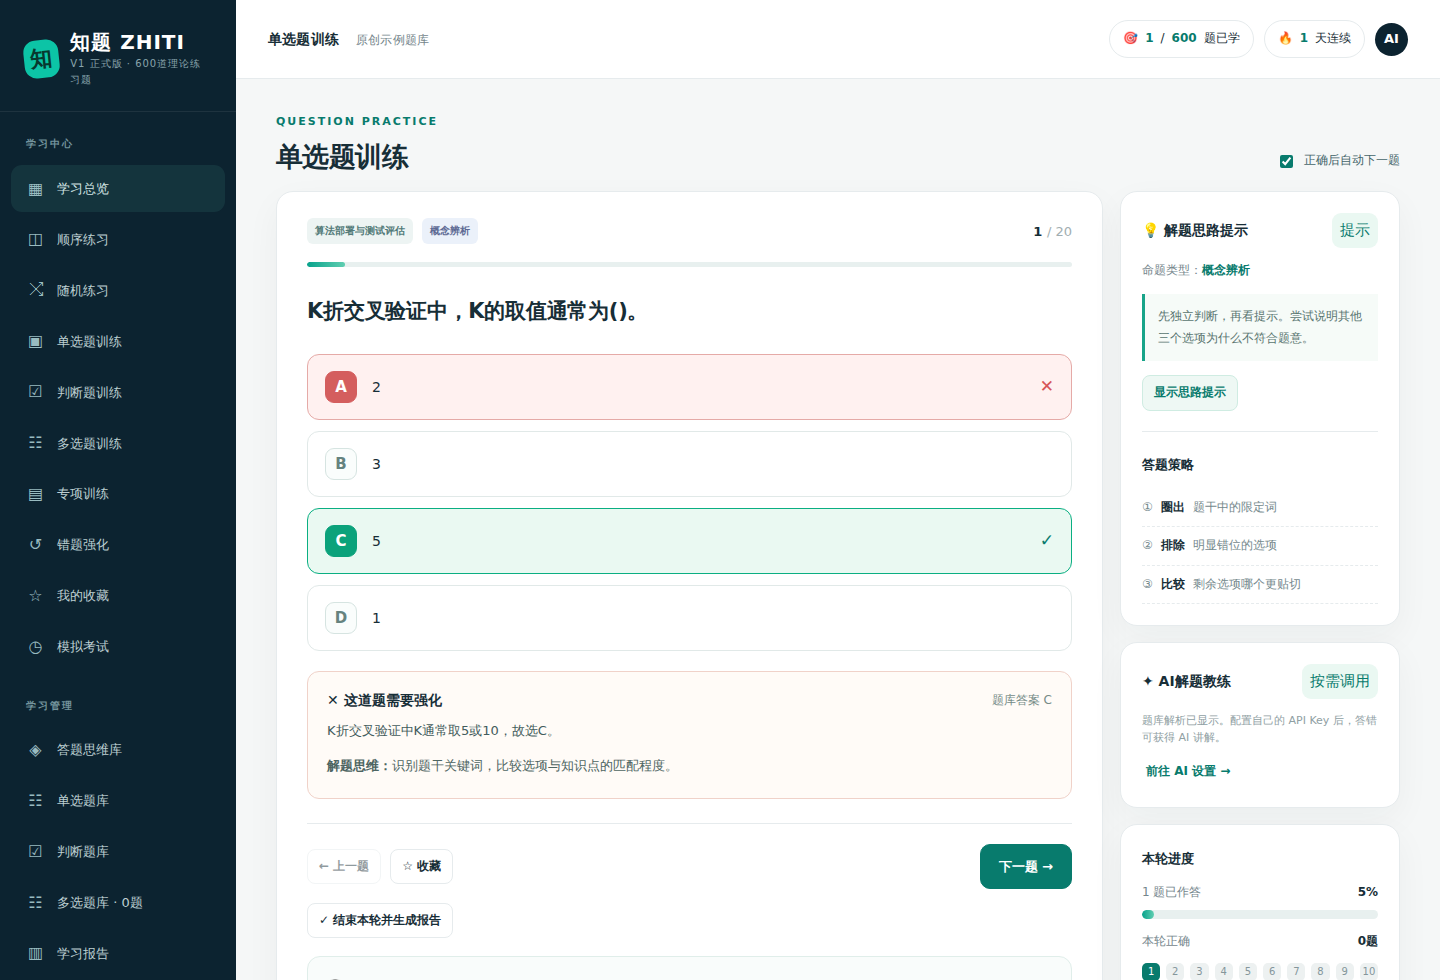
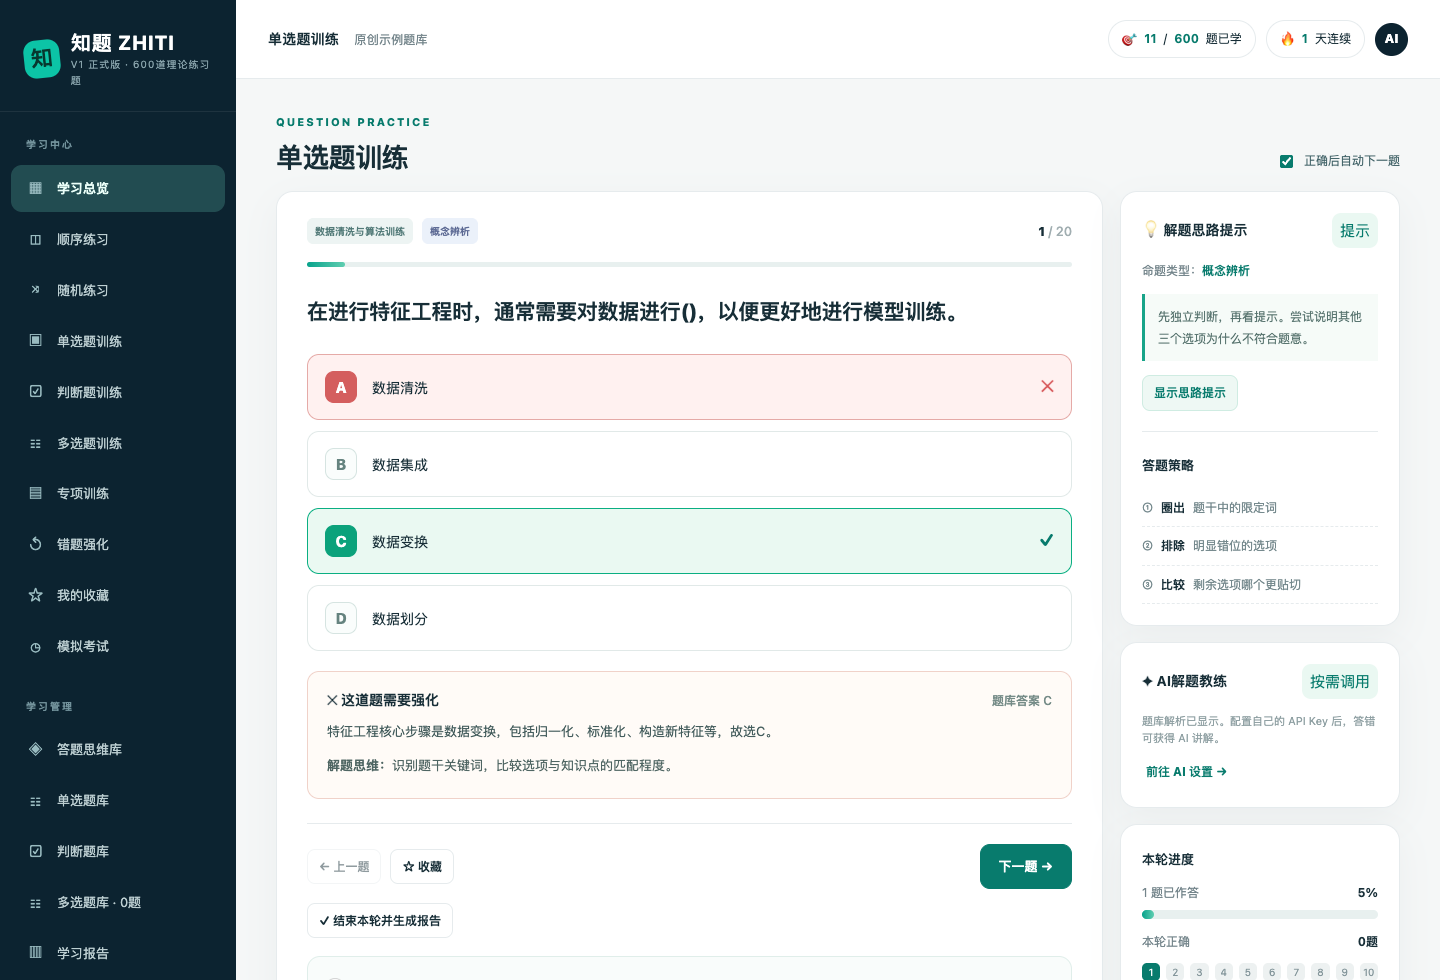
ci: harden checks screenshots and release validation

diff --git a/scripts/capture-screenshots.js b/scripts/capture-screenshots.js
@@ -3,7 +3,11 @@ const fs = require('fs');
 const path = require('path');
 
 (async () => {
-  const browser = await chromium.launch({ headless: true });
+  const browser = await chromium.launch({
+    headless: true,
+    executablePath: process.env.CHROME_PATH || undefined,
+    args: process.platform === 'linux' ? ['--no-sandbox', '--disable-setuid-sandbox'] : [],
+  });
   const page = await browser.newPage({
     viewport: { width: 1440, height: 980 },
     deviceScaleFactor: 1,
@@ -30,8 +34,8 @@ const path = require('path');
       J004: [{ at: now - 4500000, answer: 'A', ok: false }],
     };
     const demo = {
-      version: 6,
-      judgmentBankVersion: 'zhiti-demo-v1',
+      version: 7,
+      judgmentBankVersion: 'zhiti-ai600-20250527',
       history,
       bookmarks: [2, 4, 'J002'],
       multiQuestions: [],
@@ -51,9 +55,17 @@ const path = require('path');
       nickname: '我', seqCursor: 0, seqCursorJudge: 0, seqCursorMixed: 0,
       joinedAt: now - 86400000, legacyJudgments: [],
     };
-    localStorage.setItem('zhiti_public_v1', JSON.stringify(demo));
+    localStorage.setItem('zhiti_ai600_v1', JSON.stringify(demo));
   });
   await page.reload({ waitUntil: 'networkidle' });
+
+  const seeded = await page.evaluate(() => ({
+    historyCount: Object.keys(data.history || {}).length,
+    sessionCount: (data.sessions || []).length,
+  }));
+  if (seeded.historyCount !== 10 || seeded.sessionCount !== 1) {
+    throw new Error(`Screenshot demo data did not load: ${JSON.stringify(seeded)}`);
+  }
 
   await page.evaluate(() => {
     startSession('choice', 'all');

diff --git a/tests/ci_config_test.py b/tests/ci_config_test.py
@@ -1,0 +1,41 @@
+from pathlib import Path
+import re
+
+ROOT = Path(__file__).resolve().parents[1]
+
+check = (ROOT / '.github/workflows/check.yml').read_text(encoding='utf-8')
+release = (ROOT / '.github/workflows/release.yml').read_text(encoding='utf-8')
+screenshots = (ROOT / '.github/workflows/screenshots.yml').read_text(encoding='utf-8')
+capture = (ROOT / 'scripts/capture-screenshots.js').read_text(encoding='utf-8')
+html = (ROOT / 'index.html').read_text(encoding='utf-8')
+
+for command in (
+    'python3 tests/smoke_test.py',
+    'node tests/regression_test.js',
+    'node tests/import_test.js',
+    'python3 tests/ci_config_test.py',
+):
+    assert command in check, f'Check workflow is missing: {command}'
+    assert command in release, f'Release workflow is missing: {command}'
+
+assert "gh release view \"$tag\"" in release, 'repeat releases must be idempotent'
+assert '--title "知题 ZHITI · v${{ steps.version.outputs.version }}"' in release
+assert "if: github.ref == 'refs/heads/main' && github.event_name != 'pull_request'" in release
+
+assert 'npx playwright install --with-deps chromium' in screenshots
+assert "if: github.event_name != 'pull_request'" in screenshots
+assert 'git rebase origin/main && git push origin HEAD:main' in screenshots
+assert 'refresh-screenshots-${{ github.ref }}' in screenshots
+
+storage_key = re.search(r"const LS_KEY='([^']+)'", html)
+capture_key = re.search(r"localStorage\.setItem\('([^']+)'", capture)
+assert storage_key and capture_key, 'unable to read app or screenshot storage key'
+assert storage_key.group(1) == capture_key.group(1), 'screenshot seed uses a stale storage key'
+assert 'process.env.CHROME_PATH || undefined' in capture
+assert "['--no-sandbox', '--disable-setuid-sandbox']" in capture
+
+assert not (ROOT / '.github/workflows/pages.yml').exists(), (
+    'custom Pages workflow conflicts with the repository native branch deployment'
+)
+
+print('PASS: CI checks, native Pages mode, screenshot capture and release guards')
